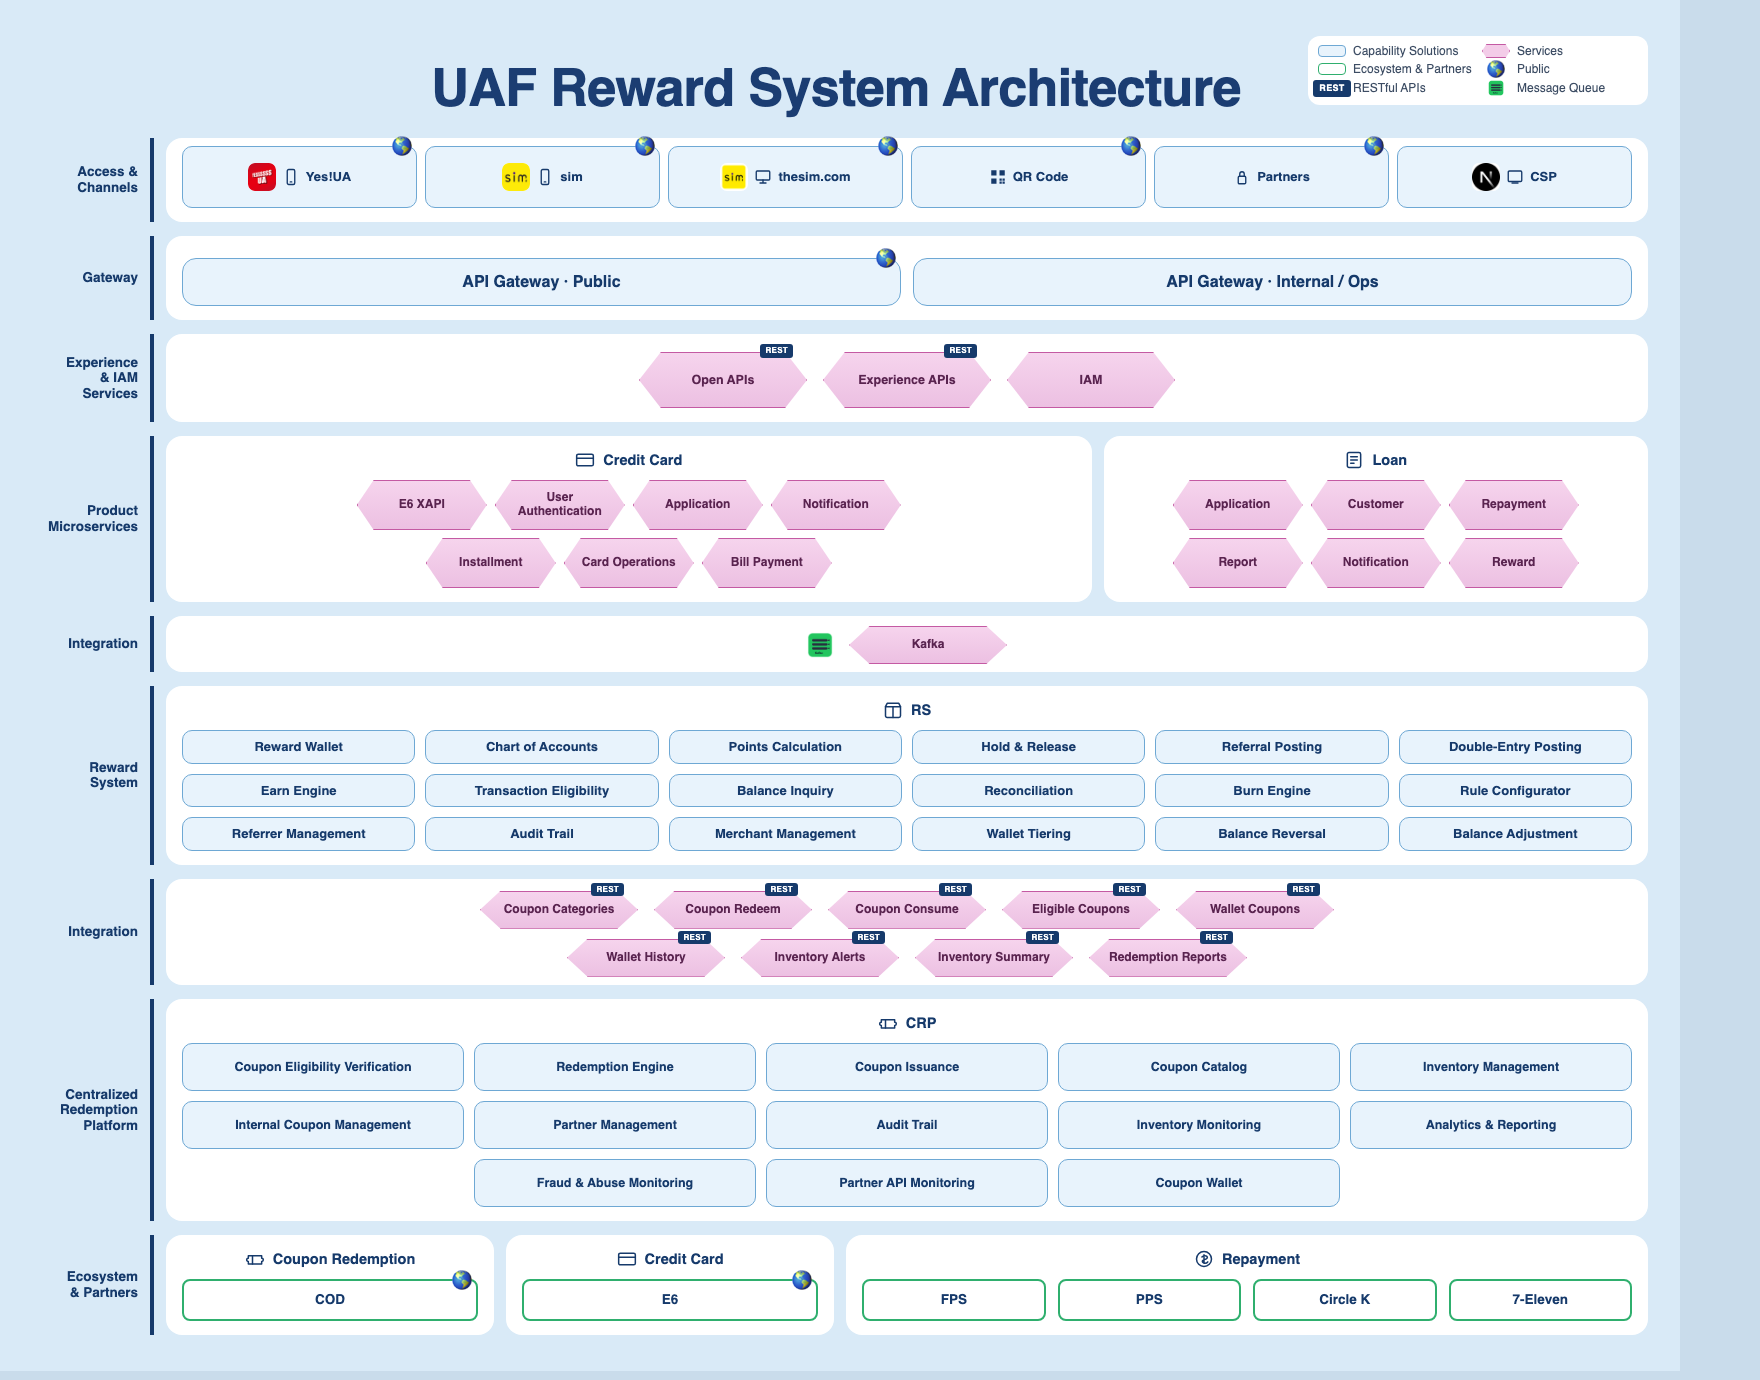
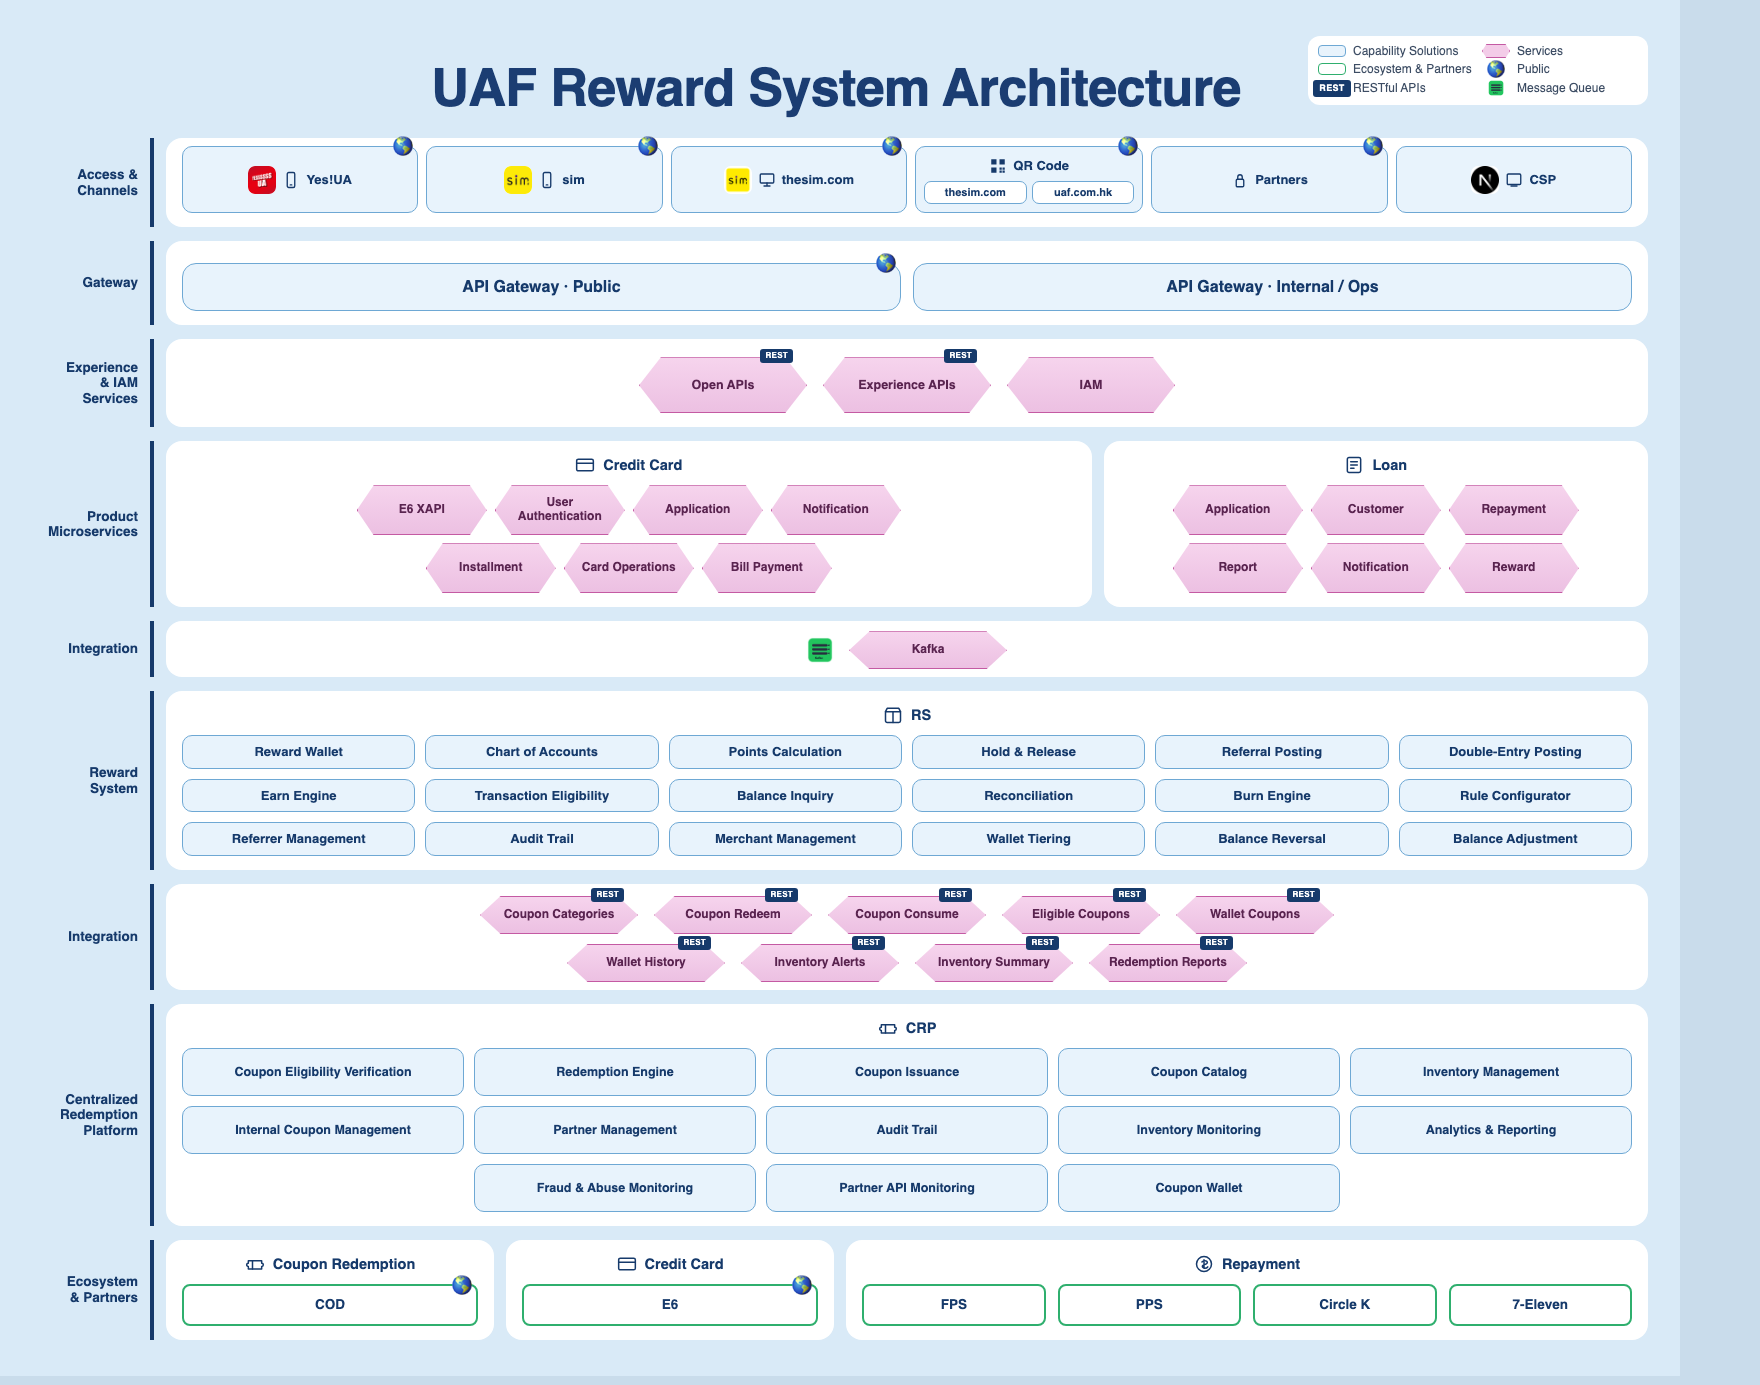
docs(decks): QR Code channel nests thesim.com and uaf.com.hk

diff --git a/docs/decks/uaf-rewards-logical-architecture.html b/docs/decks/uaf-rewards-logical-architecture.html
@@ -57,6 +57,10 @@
   .gwrow{display:grid;grid-template-columns:1fr 1fr;gap:12px;padding-top:8px}
   .crp{display:grid;grid-template-columns:1fr 1fr;gap:12px}
   .ch .cap{flex:1;min-height:62px}
+  .qr-box{flex-direction:column;gap:6px;padding:10px 8px 8px;min-height:72px;flex:1.35}
+  .qr-head{display:flex;align-items:center;justify-content:center;gap:6px}
+  .qr-subs{display:flex;gap:5px;width:100%}
+  .qr-sub{flex:1;background:#fff;border:1.3px solid #6ea8d4;border-radius:7px;font-size:11px;font-weight:700;color:#163a6b;padding:4px 6px;text-align:center;line-height:1.2}
   .caps{display:grid;grid-template-columns:repeat(5,1fr);gap:10px}
   .crp-caps{grid-template-columns:repeat(5,1fr)}
   .crp-caps .cap{min-height:48px;font-size:12.5px}
@@ -133,9 +137,15 @@
         <span>thesim.com</span>
         <span class="badge-pub">🌎</span>
       </div>
-      <div class="cap">
-        <svg class="ico" style="fill:#163a6b;stroke:none" viewBox="0 0 24 24"><rect x="3" y="3" width="7" height="7"/><rect x="14" y="3" width="7" height="7"/><rect x="3" y="14" width="7" height="7"/><rect x="14" y="14" width="3" height="3"/><rect x="18" y="14" width="3" height="3"/><rect x="14" y="18" width="3" height="3"/><rect x="18" y="18" width="3" height="3"/></svg>
-        <span>QR Code</span>
+      <div class="cap qr-box">
+        <span class="qr-head">
+          <svg class="ico" style="fill:#163a6b;stroke:none" viewBox="0 0 24 24"><rect x="3" y="3" width="7" height="7"/><rect x="14" y="3" width="7" height="7"/><rect x="3" y="14" width="7" height="7"/><rect x="14" y="14" width="3" height="3"/><rect x="18" y="14" width="3" height="3"/><rect x="14" y="18" width="3" height="3"/><rect x="18" y="18" width="3" height="3"/></svg>
+          <span>QR Code</span>
+        </span>
+        <div class="qr-subs">
+          <span class="qr-sub">thesim.com</span>
+          <span class="qr-sub">uaf.com.hk</span>
+        </div>
         <span class="badge-pub">🌎</span>
       </div>
       <div class="cap">
